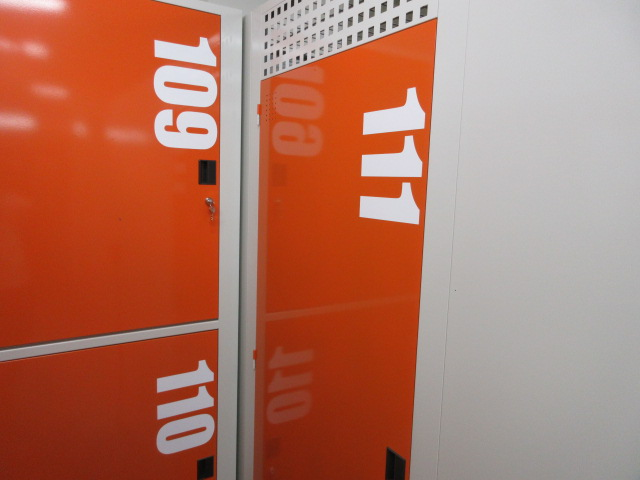
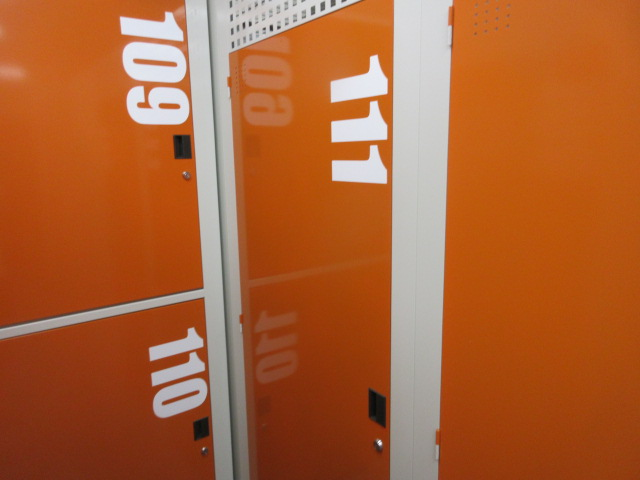
Update remodeled room photos

diff --git a/rooms-data.js b/rooms-data.js
@@ -94,26 +94,25 @@ window.BANCHOU_ROOM_IMAGES = {
     "assets/110No2.JPG"
   ],
   111: [
-    "assets/111No1.JPG",
-    "assets/111No2.JPG"
+    "assets/111No1.JPG?v=20260720-photos",
+    "assets/111No2.JPG?v=20260720-photos"
   ],
   112: [
-    "assets/112No1.JPG",
-    "assets/112No2.JPG"
+    "assets/112No1.JPG?v=20260720-photos",
+    "assets/112No2.JPG?v=20260720-photos"
   ],
   113: [
-    "assets/113No1.JPG",
-    "assets/113No2.JPG",
-    "assets/113No3.JPG"
+    "assets/113No1.JPG?v=20260720-photos",
+    "assets/113No2.JPG?v=20260720-photos"
   ],
   114: [
-    "assets/114No1.JPG",
-    "assets/114No2.JPG"
+    "assets/114No1.JPG?v=20260720-photos",
+    "assets/114No2.JPG?v=20260720-photos"
   ],
   115: [
-    "assets/115No1.JPG",
-    "assets/115No2.JPG",
-    "assets/115No3.JPG"
+    "assets/115No1.JPG?v=20260720-photos",
+    "assets/115No2.JPG?v=20260720-photos",
+    "assets/115No3.JPG?v=20260720-photos"
   ],
   116: [
     "assets/116No1.JPG",
@@ -190,6 +189,19 @@ window.BANCHOU_ROOM_IMAGES = {
   134: [
     "assets/134No1.JPG",
     "assets/134No2.jpg"
+  ],
+  135: [
+    "assets/135No1.JPG?v=20260720-photos",
+    "assets/135No2.JPG?v=20260720-photos"
+  ],
+  136: [
+    "assets/136No1.JPG?v=20260720-photos",
+    "assets/136No2.JPG?v=20260720-photos",
+    "assets/136No3.JPG?v=20260720-photos"
+  ],
+  137: [
+    "assets/137No1.JPG?v=20260720-photos",
+    "assets/137No2.JPG?v=20260720-photos"
   ],
   201: [
     "assets/201No1.JPG",

diff --git a/room-detail.html b/room-detail.html
@@ -133,7 +133,7 @@
 
 <div class="floating-cta"><a href="https://lin.ee/R9sF0Qmn" target="_blank" rel="noopener" class="floating-line"><span class="txt">🐕 LINEで空き確認</span></a></div>
 
-<script src="rooms-data.js?v=20260720-remodel"></script>
+<script src="rooms-data.js?v=20260720-photos"></script>
 <script>
 function yen(value) {
   return `${value.toLocaleString('ja-JP')}円`;

diff --git a/rooms.html b/rooms.html
@@ -348,7 +348,7 @@
 
 <div class="floating-cta"><a href="https://lin.ee/R9sF0Qmn" target="_blank" rel="noopener" class="floating-line"><span class="txt">🐕 LINEで空き確認</span></a></div>
 
-<script src="rooms-data.js?v=20260720-remodel"></script>
+<script src="rooms-data.js?v=20260720-photos"></script>
 <script>
 function yen(value) {
   return value.toLocaleString('ja-JP');
